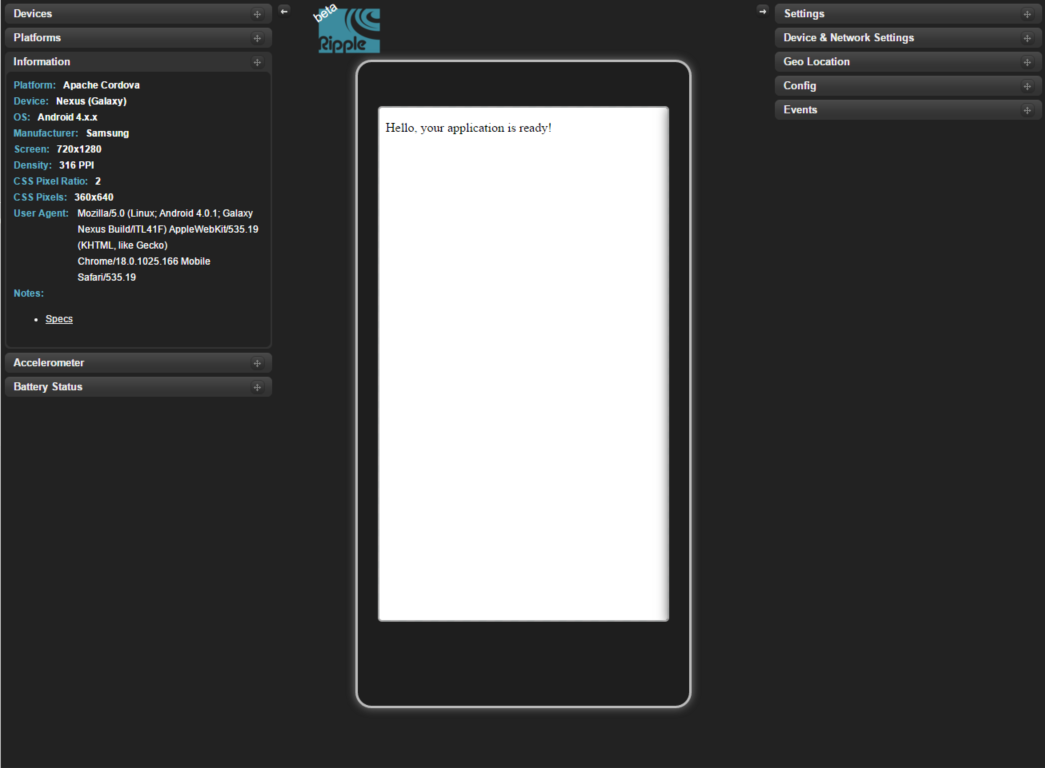
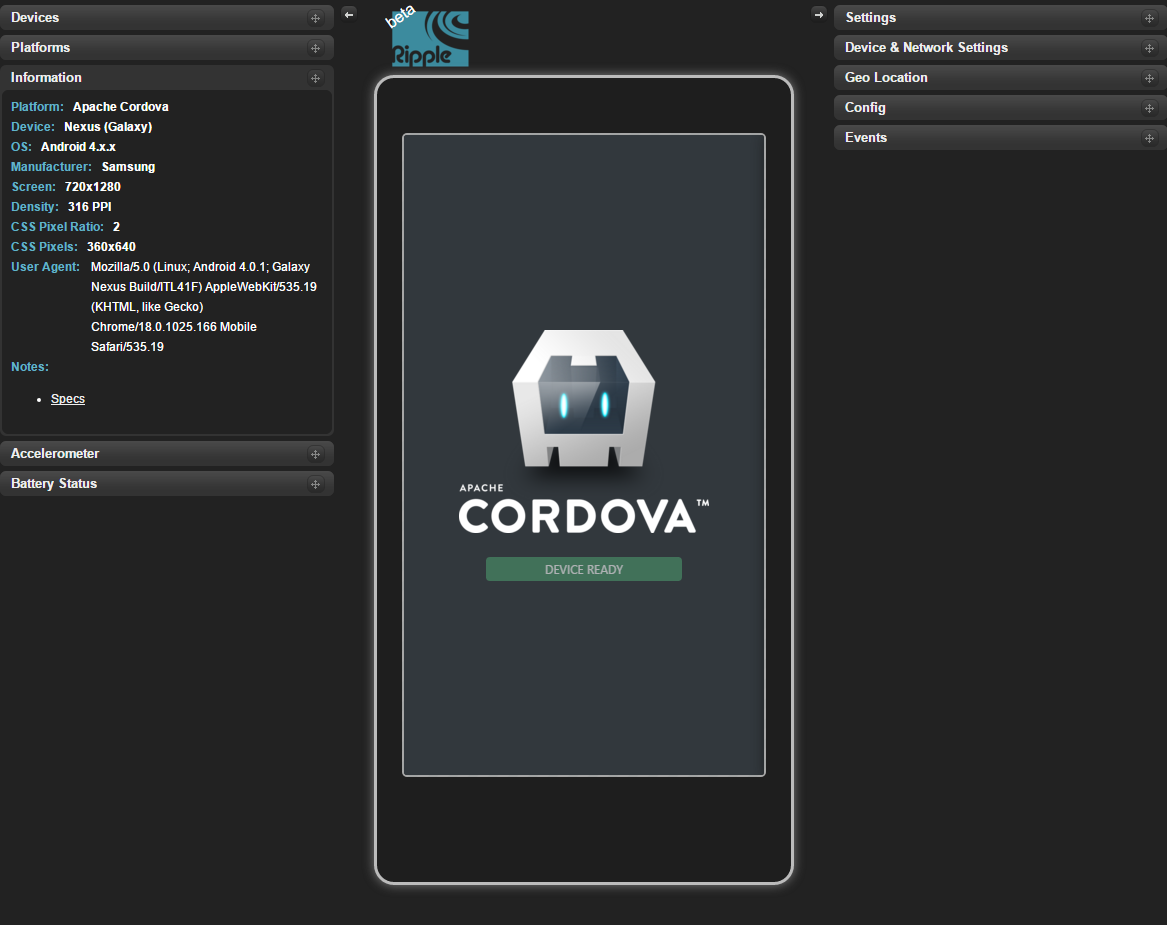
Updates to weather app

Changed region(s): [[0.0, 0.0, 1.0, 0.9688], [0.0, 0.0, 0.2756, 0.4062]]

diff --git a/articles/getting-started/get-started-first-mobile-app.md b/articles/getting-started/get-started-first-mobile-app.md
@@ -1,4 +1,4 @@
-<properties
+An<properties
    pageTitle="Get started with Visual Studio Tools for Apache Cordova | Cordova"
    description="Get started with Visual Studio Tools for Apache Cordova"
    services="na"
@@ -11,7 +11,7 @@
    ms.topic="article"
    ms.tgt_pltfrm="mobile-multiple"
    ms.workload="na"
-   ms.date="02/28/2016"
+   ms.date="04/13/2016"
    ms.author="normesta"/>
 
 # Get started with Visual Studio Tools for Apache Cordova
@@ -199,10 +199,10 @@ JQuery Mobile is a touch-optimized HTML5 UI framework, built on JQuery core, des
     <script src="scripts/jquery.mobile-x.x.x.min.js"></script>
     ```
 
-    Replace the ```x.x.x``` in these filenames with the versions that you've downloaded. For example, if you downloaded jQuery version ```2.2.1```, and jQuery mobile version ```1.4.5```, your references would look like this:
+    Replace the ```x.x.x``` in these filenames with the versions that you've downloaded. For example, if you downloaded jQuery version ```2.2.3```, and jQuery mobile version ```1.4.5```, your references would look like this:
 
     ```html
-    <script src="scripts/jquery-2.2.1.min.js"></script>
+    <script src="scripts/jquery-2.2.3.min.js"></script>
     <script src="scripts/jquery.mobile-1.4.5.min.js"></script>
     ```
 
@@ -260,10 +260,12 @@ JQuery Mobile is a touch-optimized HTML5 UI framework, built on JQuery core, des
         font-weight: bold;    
     }
     ```
-1. Open the **index.html** file and remove this line.
+1. Open the **index.html** file and remove this HTML. It's just a part of the default template that you run out of the box. We won't need it.
 
     ```html
-    <p>Hello, your application is ready!</p>
+    <div class="app">
+      <p id="deviceready" class="event">Connecting to Device</p>
+    </div>
     ```
 
 2. Add this HTML to the ```<body>``` of the page to give users a way to search for the weather and see the results.
@@ -288,7 +290,7 @@ JQuery Mobile is a touch-optimized HTML5 UI framework, built on JQuery core, des
                 <li><span id="summary"><span id="temperature"></span> F <img src="" /></span></li>
                 <li>Wind: <span id="wind"></span> knots</li>
                 <li>Humidity: <span id="humidity"></span> %</li>
-                <li>Visibility: <span id="visibility"></span> miles</li>
+                <li>Visibility: <span id="visibility"></span></li>
                 <li>Sunrise: <span id="sunrise"></span></li>
                 <li>Sunset: <span id="sunset"></span></li>
             </ul>
@@ -309,11 +311,23 @@ JQuery Mobile is a touch-optimized HTML5 UI framework, built on JQuery core, des
 
 1. Open the [index.js](#tour-project) file and add the following line of code to the ```onDeviceReady``` function.
 
-    ```javascript
-    $('#get-weather-btn').click(WeatherApp.getWeather);
-	```
+   ```javascript
+
+      $('#get-weather-btn').click(WeatherApp.getWeather);
+
+  ```
 
     This code refers to the ID of the 'Get Weather' button on the HTML page and handles the `click` event by passing in the name of a function (_getWeather_).  You'll add that function shortly.
+
+2. While you're in this file, remove this code from the ```onDeviceReady``` function. It's just a part of the default template that you run out of the box. We won't need it.
+
+    ```javascript
+
+    var element = document.getElementById("deviceready");
+    element.innerHTML = 'Device Ready';
+    element.className += ' ready';
+
+    ```
 
 #### A quick look at index.js
 This is a good time to quickly look at the ```index.js``` file. This file loads when the user runs the app.  Why? Because the ```index.html``` page contains this reference to it:
@@ -342,6 +356,10 @@ function onDeviceReady() {
 
 So what exactly do we mean by *Cordova device APIs*? These are APIs that you'd use to interact with device capabilities such as the camera or accelerometer. If you want to run any code like this when the app first starts, make sure you add that code or call those functions from inside of this event handler. In fact, later on, we'll do just that.
 
+### Get a free API Key
+
+We'll use the [OpenWeatherMap](http://openweathermap.org/) API to get weather data. To use the free version of this service, get a key [here](https://home.openweathermap.org/).
+
 ### Add code to get the weather
 
 Now we'll add the *getWeather* function that we're using to handle button's ``click`` event. But first, let's add a JavaScript file for that function.
@@ -354,57 +372,58 @@ Now we'll add the *getWeather* function that we're using to handle button's ``cl
 
 3. Name the file *weather.js*, and then choose the **Add** button.
 
-4. Open the **weather.js** file and add the following function.
+4. Open the **weather.js** file and add the following function. Replace ``Your_Key_Here`` with the key that you got from [OpenWeatherMap](https://home.openweathermap.org/).
 
-	```javascript       
-    var WeatherApp = {};
+	 ```javascript       
 
-    (function ($, ns, navigator) {
-        ns.getWeather = function () {
-            var zipcode = $('#zip-code-input').val();
+    var OpenWeatherAppKey = "Your_Key_Here";
 
-            // get weather using zip code
-            var queryString =
-                'https://query.yahooapis.com/v1/public/yql?q='
-                + 'select+*+from+weather.forecast+where+location='
-                + zipcode + '&format=json';
+    function getWeatherWithZipCode() {
 
-            $.getJSON(queryString, function (results) {
-                if (results.query.count > 0 && results.query.results.channel.wind) {
-                    $('#error-msg').hide();
-                    $('#weather-data').show();
+      var zipcode = $('#zip-code-input').val();
 
-                    var weather = results.query.results.channel;
-                    $('#title').text(weather.title);
+      var queryString =
+          'http://api.openweathermap.org/data/2.5/weather?zip='
+           + zipcode + ',us&appid=' + OpenWeatherAppKey + '&units=imperial';
 
-                    var wind = weather.wind;
-                    $('#temperature').text(wind.chill);
-                    $('#wind').text(wind.speed);
+      $.getJSON(queryString, function (results) {
 
-                    var atmosphere = weather.atmosphere;
-                    $('#humidity').text(atmosphere.humidity);
-                    $('#visibility').text(atmosphere.visibility);
+          showWeatherData(results);
 
-                    var astronomy = weather.astronomy;
-                    $('#sunrise').text(astronomy.sunrise);
-                    $('#sunset').text(astronomy.sunset);
+          }).fail(function (jqXHR) {
+              $('#error-msg').show();
+              $('#error-msg').text("Error retrieving data. " + jqXHR.statusText);
+          });
 
-                    $('#summary img').attr('src', $(weather.item.description)[0].src);
+          return false;
+    }
 
-                } else {
-                    $('#weather-data').hide();
-                    $('#error-msg').show();
-                    $('#error-msg').text("Error retrieving data. " + results.query.results.channel.item.title);
-                }
-            }).fail(function (jqXHR) {
-                $('#error-msg').show();
-                $('#error-msg').text("Error retrieving data. " + jqXHR.statusText);
-            });
+    function showWeatherData(results) {
 
-            return false;
-        }
+      if (results.weather.length) {
 
-    })($, WeatherApp, navigator);
+          $('#error-msg').hide();
+          $('#weather-data').show();
+
+          $('#title').text(results.name);
+          $('#temperature').text(results.main.temp);
+          $('#wind').text(results.wind.speed);
+          $('#humidity').text(results.main.humidity);
+          $('#visibility').text(results.weather[0].main);
+
+          var sunriseDate = new Date(results.sys.sunrise);
+          $('#sunrise').text(sunriseDate.toLocaleTimeString());
+
+          var sunsetDate = new Date(results.sys.sunrise);
+          $('#sunset').text(sunsetDate.toLocaleTimeString());
+
+      } else {
+          $('#weather-data').hide();
+          $('#error-msg').show();
+          $('#error-msg').text("Error retrieving data. ");
+      }
+    }
+
 	```
 
     This function gets a zip code from the input box, and uses a free service to get the weather for that zip code. The rest of this code uses JQuery syntax to populate controls on the page with data from the service.
@@ -428,18 +447,17 @@ Now we'll add the *getWeather* function that we're using to handle button's ``cl
     <script src="scripts/weather.js"></script>
 	```
 
-6. Add ```https://query.yahooapis.com```, ```http://gws2.maps.yahoo.com``` and ```http://l.yimg.com``` to the page's Content Security Policy (CSP). The CSP is just a line of HTML that is located inside of the ```<head>```. Use it to declare approved origins of content that browsers should be allowed to load on your website. It looks like this:
+6. Add ```http://api.openweathermap.org``` to the page's Content Security Policy (CSP). The CSP is just a line of HTML that is located inside of the ```<head>```. Use it to declare approved origins of content that browsers should be allowed to load on your website. It looks like this:
 
     ```html
     <meta http-equiv="Content-Security-Policy" content="default-src 'self' data: gap:
     https://ssl.gstatic.com 'unsafe-eval'; style-src 'self' 'unsafe-inline'; media-src *">
     ```
 
-    Add ```https://query.yahooapis.com```, ```http://gws2.maps.yahoo.com``` and ```http://l.yimg.com``` just after ```https://ssl.gstatic.com``` in that line to give this page permission to get content from the Yahoo weather service and map service. When you're done, your CSP will look like this:
+    Add ```http://api.openweathermap.org``` just after ```https://ssl.gstatic.com``` in that line to give this page permission to get content from the Yahoo weather service and map service. When you're done, your CSP will look like this:
 
     ```html
-    <meta http-equiv="Content-Security-Policy" content="default-src 'self' data: gap:
-    https://ssl.gstatic.com https://query.yahooapis.com http://gws2.maps.yahoo.com http://l.yimg.com 'unsafe-eval'; style-src 'self' 'unsafe-inline'; media-src *">
+    <meta http-equiv="Content-Security-Policy" content="default-src 'self' data: gap: http://api.openweathermap.org https://ssl.gstatic.com 'unsafe-eval'; style-src 'self' 'unsafe-inline'; media-src *">           
     ```
 
     > **Note:** Content Security Policy (CSP) is a computer security standard introduced to prevent cross-site scripting (XSS), clickjacking and other code injection attacks resulting from execution of malicious content in the trusted web page context. You can read more about it here: http://content-security-policy.com/
@@ -516,72 +534,77 @@ Let's add a plug-in that gives us access to the device's geolocation system. Tha
 
     Let's add some code that consumes this plugin.
 
-3. In the **weather.js** file add the following code right after the ```getWeather``` function:
+3. In the **weather.js** file add the following code right after the ```getWeather``` function
 
-	 ```javascript
-    ns.getLocation = function () {
-        navigator.geolocation.getCurrentPosition(onGetLocationSuccess, onGetLocationError, { enableHighAccuracy: true });
+4. Open the **weather.js** file and add the following function. Replace ``Your_Key_Here`` with the key that you got from [OpenWeatherMap](https://home.openweathermap.org/).
 
-        $('#error-msg').show();
-        $('#error-msg').text('Determining your current location ...');
+	 ```javascript       
 
-        $('#get-weather-btn').prop('disabled', true);
+    function getWeatherWithGeoLocation() {
+
+      navigator.geolocation.getCurrentPosition(onGetLocationSuccess, onGetLocationError,
+        { enableHighAccuracy: true });
+
+      $('#error-msg').show();
+      $('#error-msg').text('Determining your current location ...');
+
+      $('#get-weather-btn').prop('disabled', true);
     }
+    function onGetLocationSuccess(position) {
 
-    var onGetLocationSuccess = function (position) {
-        var latitude = position.coords.latitude;
-        var longitude = position.coords.longitude;
+    var latitude = position.coords.latitude;
+    var longitude = position.coords.longitude;
 
-        // get zip code by using latitude and longitude.
-        var queryString = 'http://gws2.maps.yahoo.com/findlocation?pf=1&locale=en_US&offset=15&flags=&q='
-            + latitude + '%2c' + longitude + '&gflags=R&start=0&format=json';
+    var queryString =
+      'http://api.openweathermap.org/data/2.5/weather?lat='
+      + latitude + '&lon=' + longitude + '&appid=' + OpenWeatherAppKey + '&units=imperial';
 
-        $.getJSON(queryString, function (results) {
-            $('#error-msg').hide();
+    $('#get-weather-btn').prop('disabled', false);
 
-            if (results.Found > 0) {
-                // put the zip code into the input box for the user if we get a location
-                var zipCode = results.Result.uzip
-                $('#zip-code-input').val(zipCode);
-            }
-        }).fail(function () {
-            $('#error-msg').text('Error retrieving data.');
-        }).always(function () {
-            // always reset the UI even if we fail to get a ZIP code from the service.
-            $('#get-weather-btn').prop('disabled', false);
-        });
+    $.getJSON(queryString, function (results) {
+
+        showWeatherData(results);
+
+        }).fail(function (jqXHR) {
+            $('#error-msg').show();
+            $('#error-msg').text("Error retrieving data. " + jqXHR.statusText);
+    });
+
     }
+    function onGetLocationError(error) {
 
-    var onGetLocationError = function (error) {
-        $('#error-msg').text('Error getting location. Leaving zip code field blank');
-        $('#get-weather-btn').prop('disabled', false);
-    }
-    ```
+      $('#error-msg').text('Error getting location');
+      $('#get-weather-btn').prop('disabled', false);
+    }  
 
-    This code uses the device's geolocation capability to get the latitude and longitude of the device's location. It then uses the latitude and longitude to get a zip code for that location and then populate the input box of your app with that zip code.
+	```
+
+    This code uses the device's geolocation capability to get the latitude and longitude of the device's location. It then gets the weather for that location.
 
 4.  Open the **index.js** file, and add the following code to the `onDeviceReady` function.
 
-	```javascript  
-	WeatherApp.getLocation();
-	```
+```javascript
 
+	  getWeatherWithGeoLocation();
+
+```
     The ``onDeviceReady`` function should look like this.
 
-	```javascript
-	function onDeviceReady() {
+```javascript
+
+    function onDeviceReady() {
 		// Handle the Cordova pause and resume events
 		document.addEventListener( 'pause', onPause.bind( this ), false );
 		document.addEventListener('resume', onResume.bind(this), false);
 
-        $('#get-weather').click(WeatherApp.getWeather);
-        WeatherApp.getLocation();
+        $('#get-weather-btn').click(getWeatherWithZipCode);
+         getWeatherWithGeoLocation();
 	};
-	```
+```
 
 6. Run the app.
 
-    When your app starts, the label *Determining your current location ...* appears. After a brief period of time, the input box shows the zip code of your current location.
+    When your app starts, the label *Determining your current location ...* appears. After a brief period of time, the weather data for your location appears in the app.
 
     > **Note**: If you use the Apache Ripple emulator, you’ll have to configure it with your location.
 
